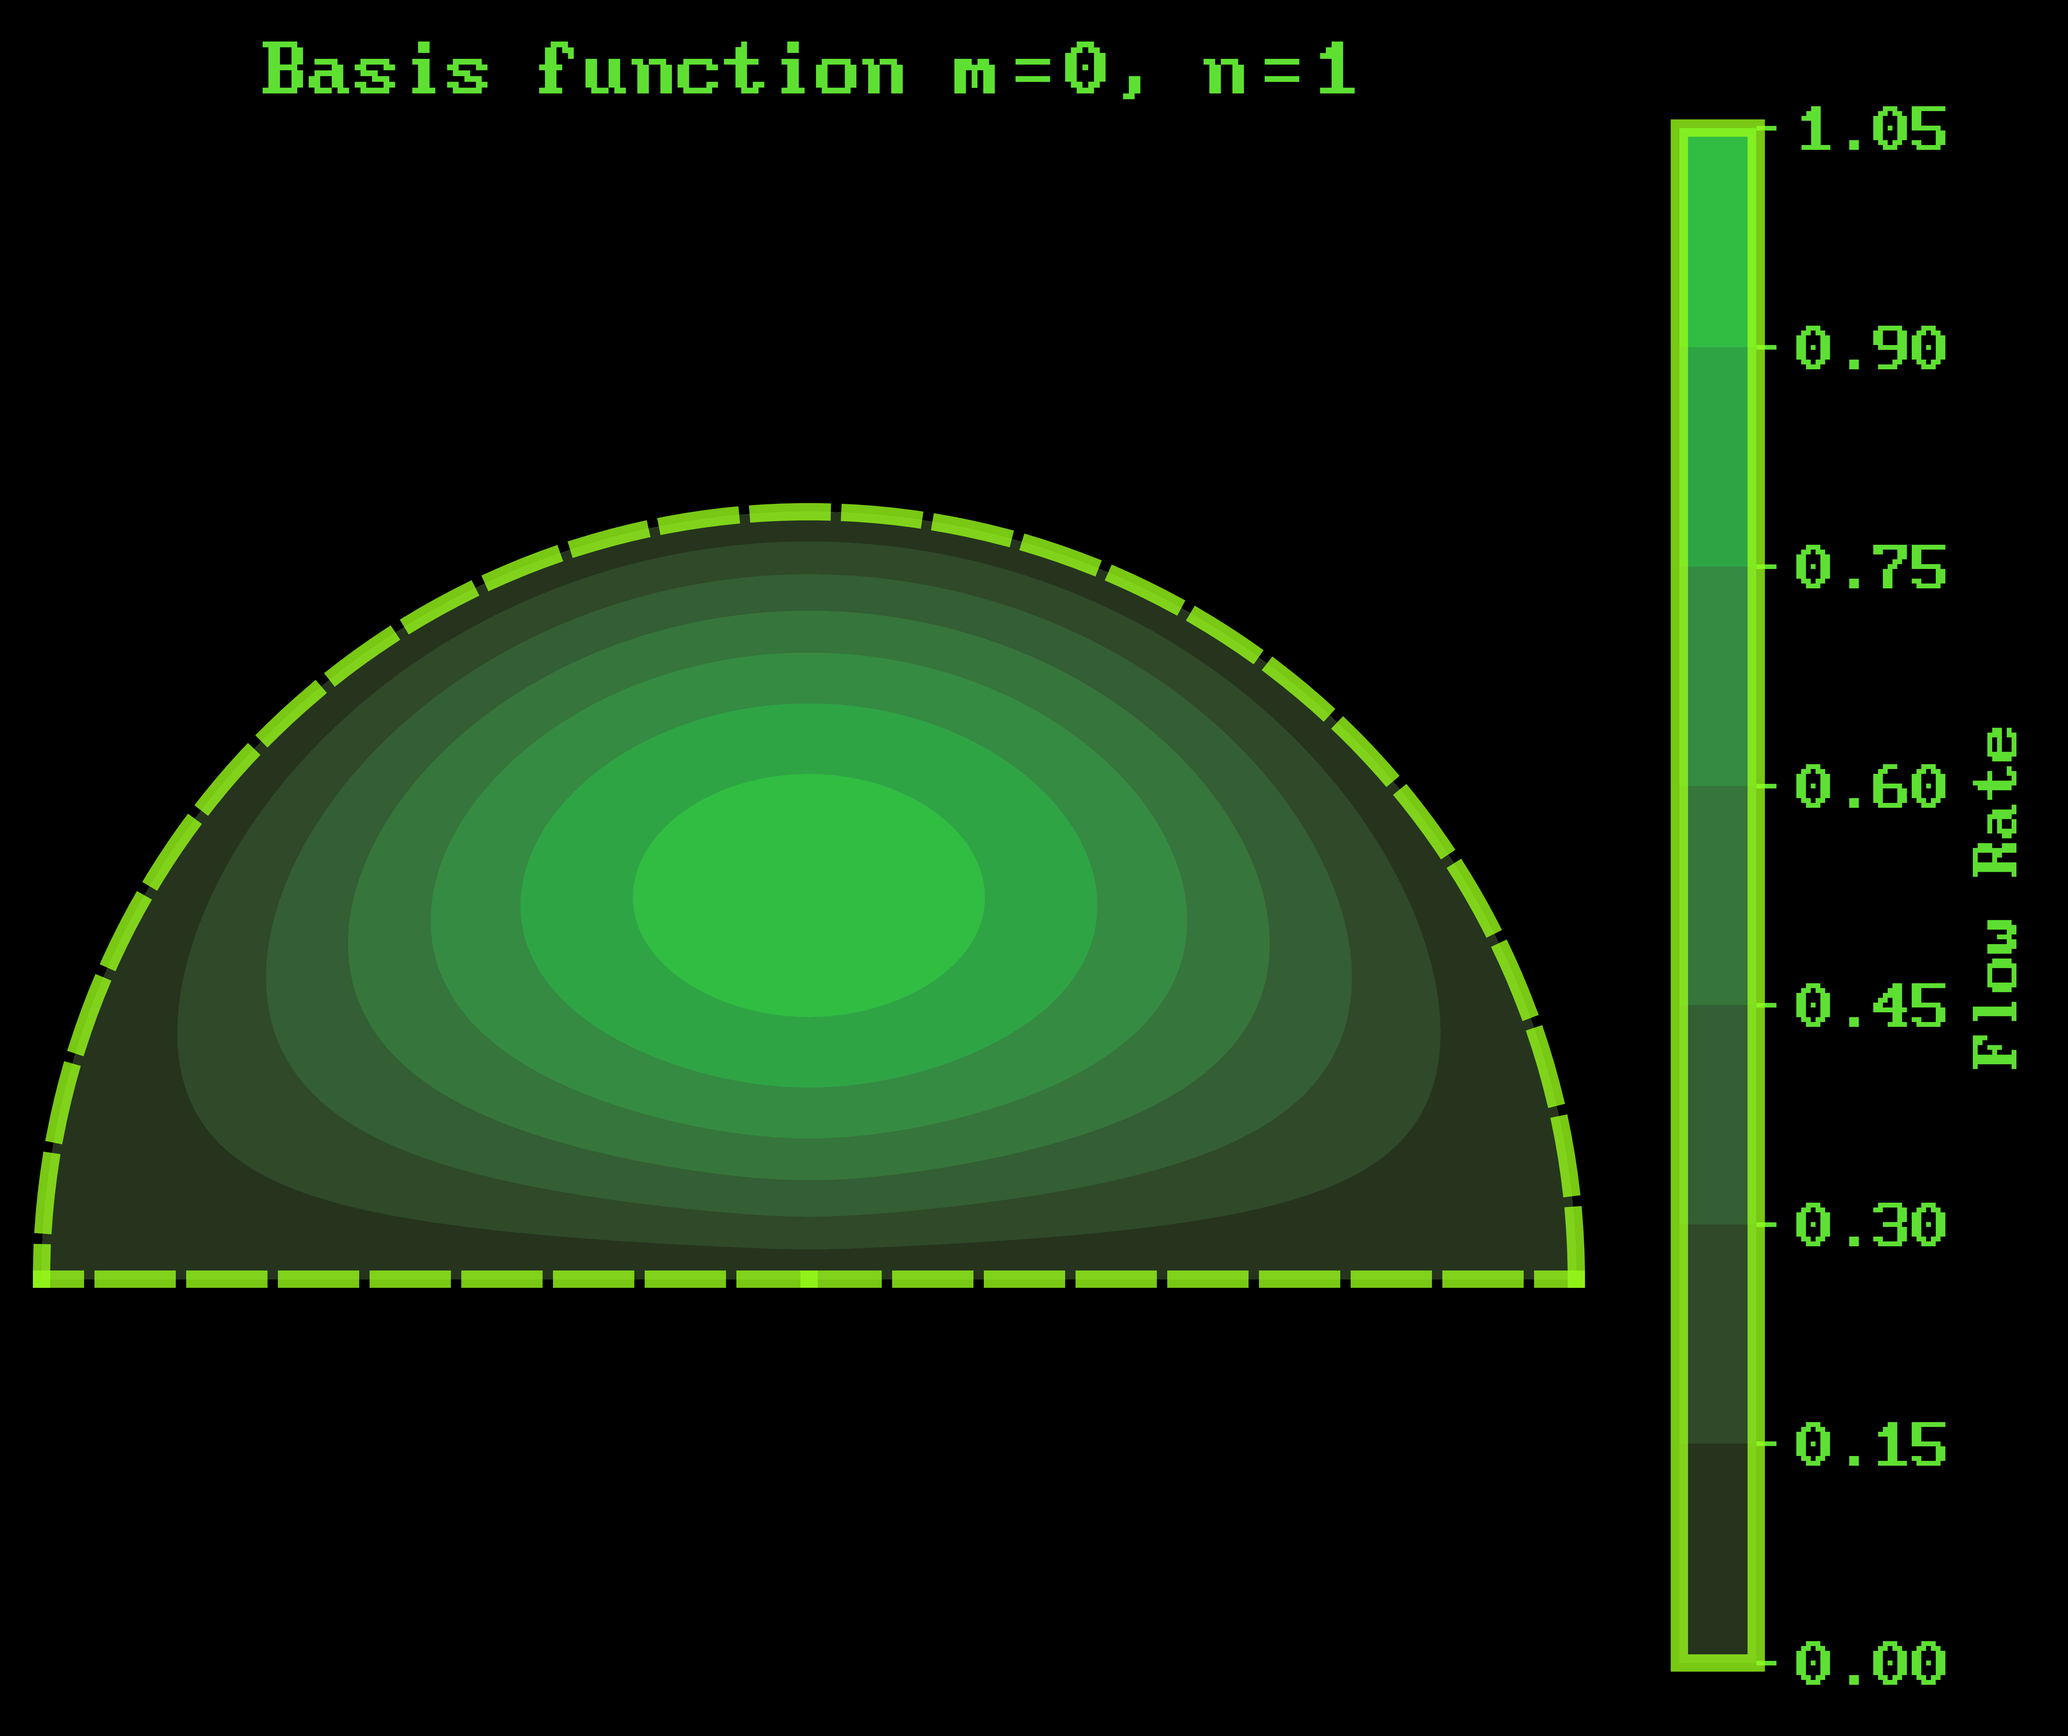
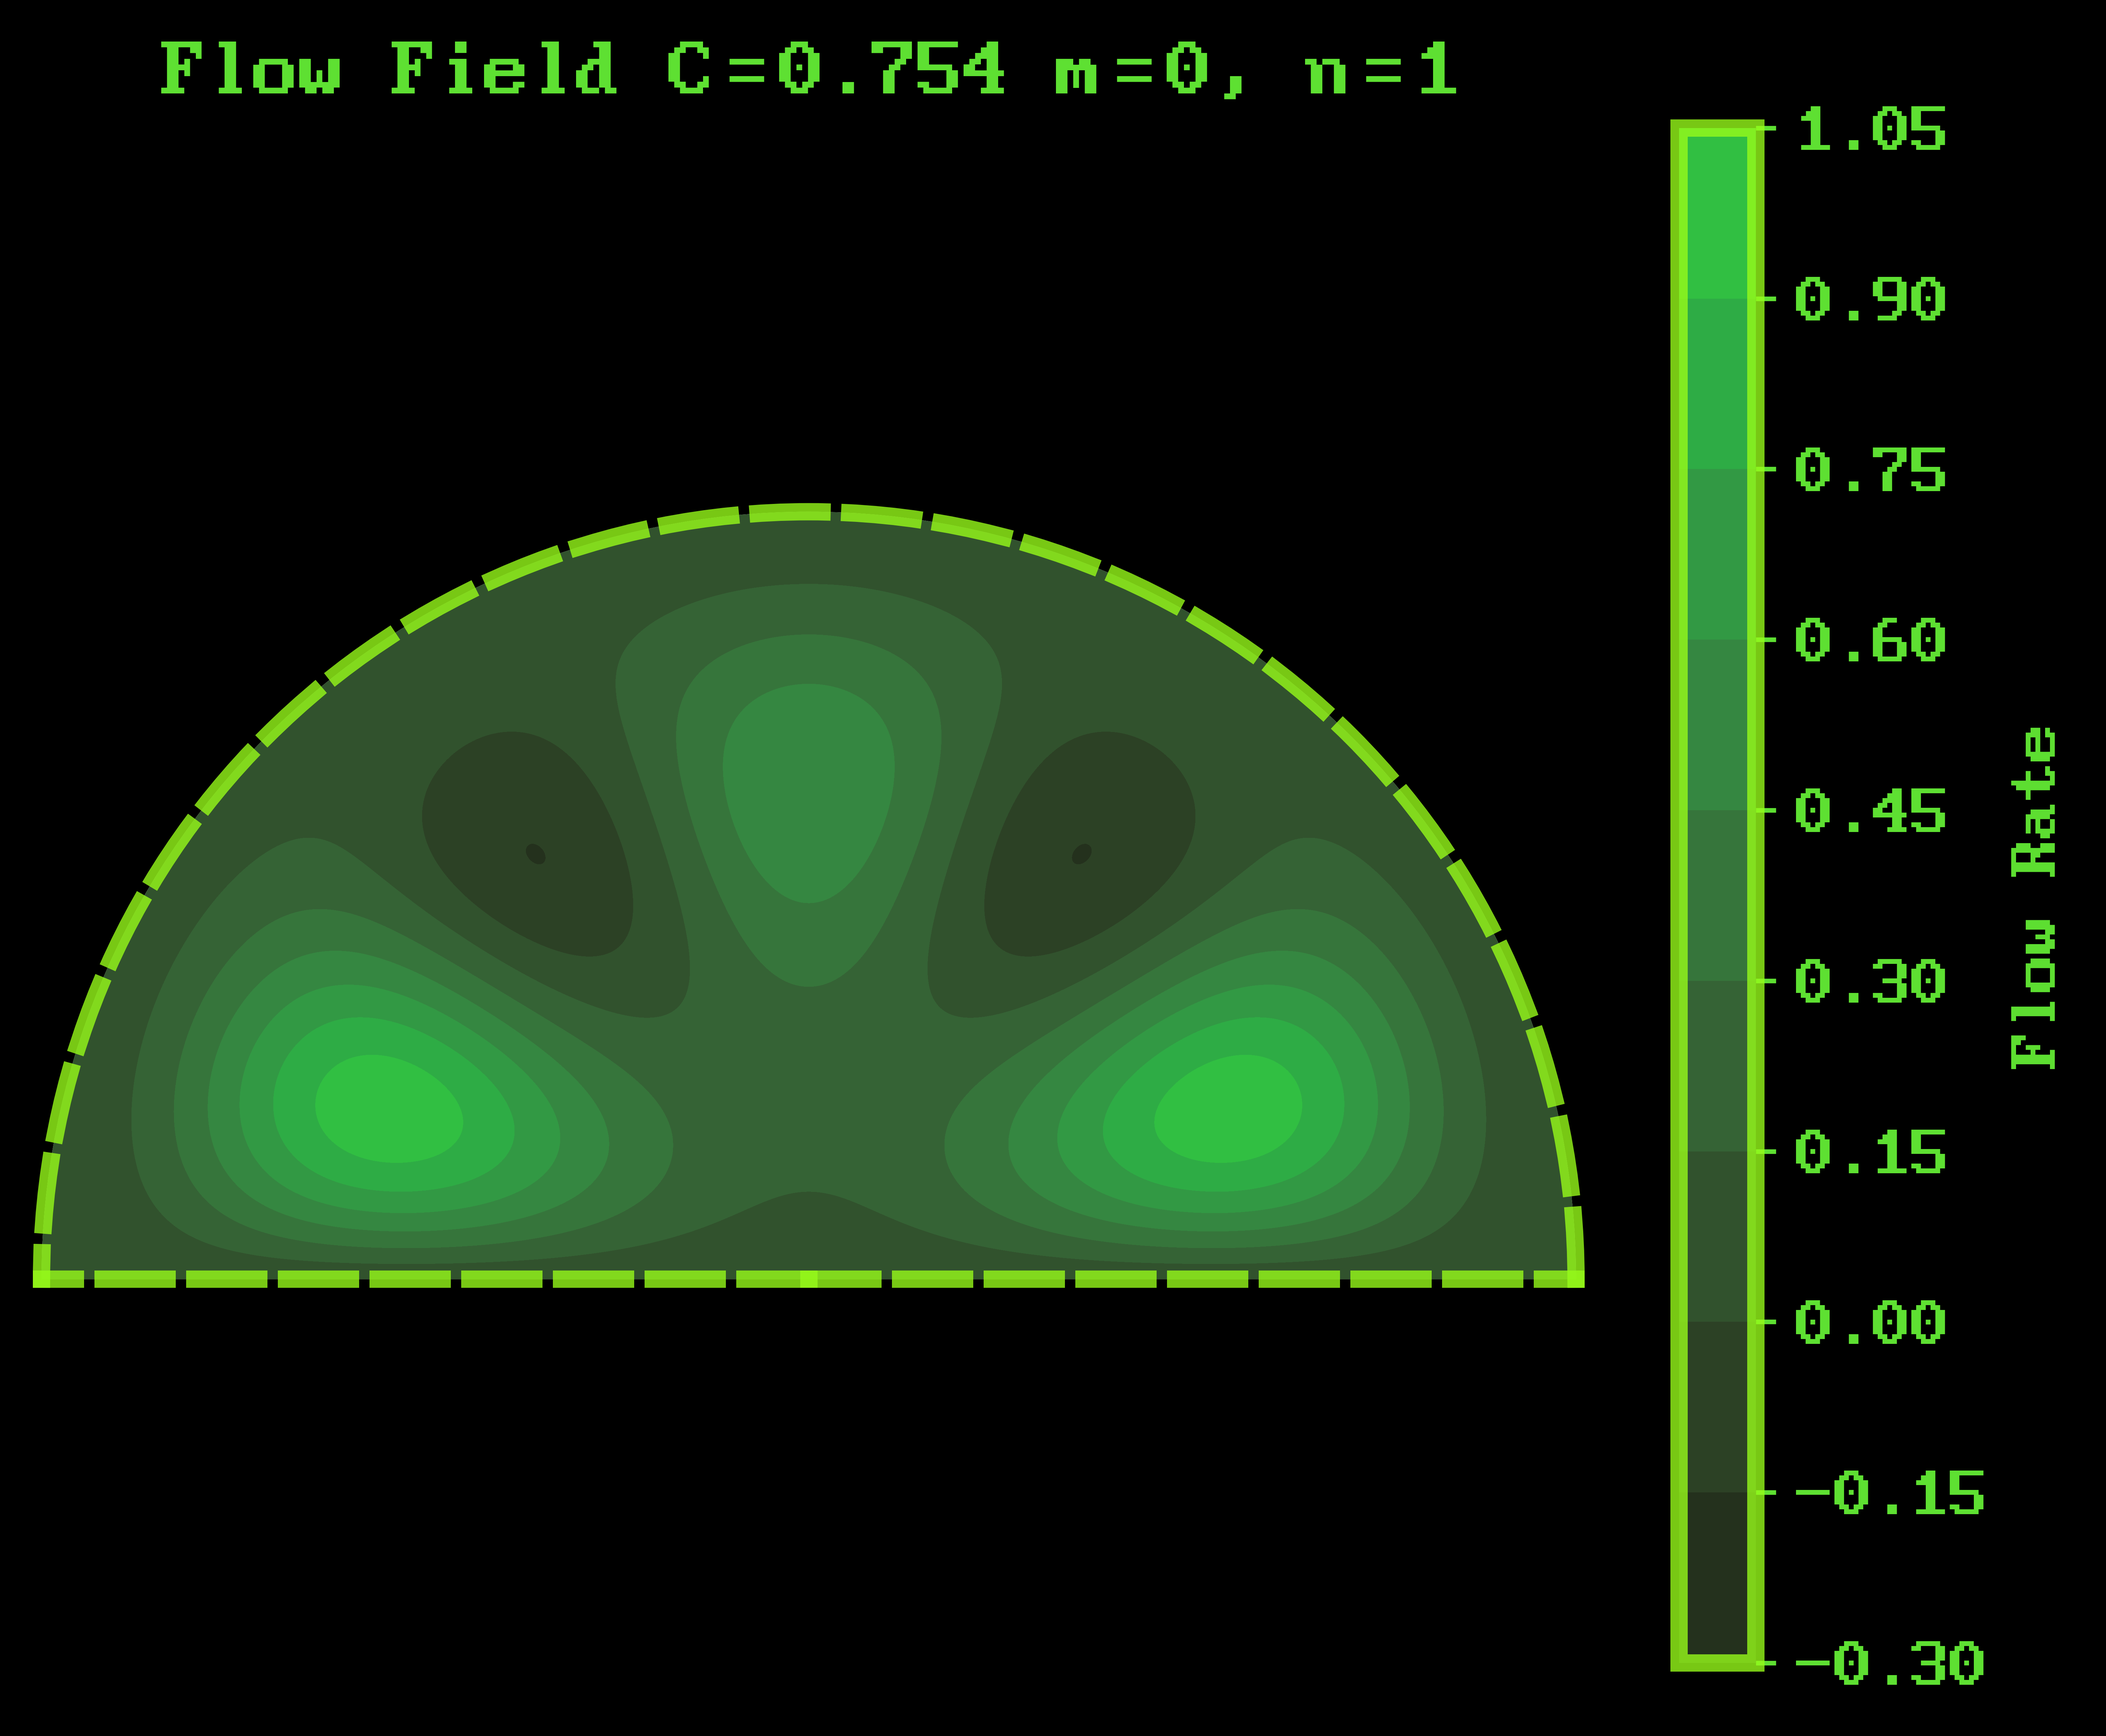
feat: :construction: work on flow solution

Changed region(s): [[0.0, 0.0622, 0.9649, 0.9641], [0.0622, 0.0, 0.6847, 0.0622]]

diff --git a/src.py b/src.py
@@ -6,6 +6,7 @@ import numpy as np
 import matplotlib.pyplot as plt
 import cmasher as cmr
 from scipy.special import beta
+from time import perf_counter_ns
 
 
 plt.rcParams["font.family"] = "BigBlueTerm437 Nerd Font Mono"
@@ -14,6 +15,7 @@ plt.rcParams['mathtext.rm'] = 'BigBlueTerm437 Nerd Font Mono'
 plt.rcParams['mathtext.it'] = 'BigBlueTerm437 Nerd Font Mono:italic'
 plt.rcParams['mathtext.bf'] = 'BigBlueTerm437 Nerd Font Mono:bold'
 plt.rcParams['mathtext.sf'] = 'BigBlueTerm437 Nerd Font Mono'
+plt.rcParams.update({'axes.unicode_minus' : False})
 
 # Text color #97FC1A
 # ['#000000', '#11140B', '#23301C', '#2F4A2A', '#356636', '#368440', '#30A245', '#32C141', '#5EE032', '#97FC1A']
@@ -32,6 +34,12 @@ class GalerkinObject():
         self.N_dim = N_dim
         # Sub colormap for better contrast on our quasi-green screen
         self.cmap = cmr.get_sub_cmap('cmr.nuclear', 0.2, 0.8)
+        # Init empty variables
+        self.basis = None
+        self.A = None
+        self.b = None
+        self.a = None
+        self.Z = None
     
     def basis_function(self, x, phi, m, n):
         """
@@ -115,19 +123,53 @@ class GalerkinObject():
 
         self.C *= -32/np.pi 
 
-        return self.C             
+        return self.C       
+
+    def _solve_a(self):
+        """
+        Solve for flow field coefficients a_mn.
+        """
+        if self.basis is None:
+            self.create_basis(self.M_dim, self.N_dim)
+        if self.A is None:
+            self._create_matrix(self.M_dim, self.N_dim)
+        if self.b is None:
+            self._create_vector(self.M_dim, self.N_dim)
+        
+        self.a = np.zeros(self.M_dim*self.N_dim)
+        A_inv = np.linalg.inv(self.A)
+        for m in range(self.M_dim):
+            for n in range(1, self.N_dim + 1):
+                for m_prime in range(self.M_dim):
+                    for n_prime in range(1, self.N_dim + 1):
+                        self.a[m_prime*self.N_dim + n_prime - 1] += A_inv[m * self.N_dim + n - 1, m_prime * self.N_dim + n_prime - 1] * \
+                                                                    self.b[m*self.N_dim + n - 1]
+
+        return self.a
     
-    def plot_flow(self, Z: np.ndarray | None):
+    def solve_flow(self):
+        """
+        Solve for the flow field.
+        """
+        if self.a is None:
+            self._solve_a()
+        
+        # self.Z = np.zeros((self.M_dim, self.N_dim, self.X.shape[0], self.X.shape[1]))
+        self.Z = 0
+        for m in range(self.M_dim):
+            for n in range(1, self.N_dim + 1):
+                self.Z += self.a[m*self.N_dim + n - 1] * self.basis_function(self.X, self.PHI, m, n)
+        
+        return self.Z
+    
+    def plot_flow(self, Z: np.ndarray | None, m: int = None, n: int = None, title: str = None):
         fig, ax = plt.subplots(subplot_kw=dict(projection='polar'), facecolor="#000000")
         ax.set_xticklabels([])
         ax.set_yticklabels([])
         ax.set_thetalim(0, np.pi)
 
-        m = self.m
-        n = self.n
-
         if Z is None:
-            Z = self.basis_function(self.X, self.PHI, self.m, self.n)
+            Z = self.basis_function(self.X, self.PHI, m, n)
 
         # Plot the contourf with the colormap
         cnt = ax.contourf(self.PHI, self.X, Z, cmap=self.cmap)
@@ -165,12 +207,36 @@ class GalerkinObject():
         ax.spines['start'].set_alpha(0.8)
         ax.spines['start'].set_linestyle("--")
 
-        plt.title(f"Basis function $m={m}$, $n={n}$", color="#5EE032")
+        plt.title(f"{title} $m={m}$, $n={n}$", color="#5EE032")
         plt.grid(False)
         plt.savefig('filename.png', dpi=1200, bbox_inches="tight")
         plt.show()
 
-GO = GalerkinObject(2, 2)
 
-mat = GO.solve()
-print(mat)
+def scale_it(N_range, M_range):
+    """
+    Scale the basis functions to see how they change with the 
+    number of basis functions.
+    """
+    solutions = {}
+    for M in range(1, M_range + 1):
+        for N in range(1, N_range + 1):
+            GO = GalerkinObject(M, N)
+            print(f"Now solving for basis of size m={M}, n={N}")
+            time = perf_counter_ns()
+            C = GO.solve()
+            time = (perf_counter_ns() - time)
+            solutions[f"m={M}, n={N}"] = (C, time)
+
+    return solutions
+
+# print(scale_it(5, 5))
+
+m = 0
+n = 1
+GO = GalerkinObject(3, 3)
+val = GO.solve()
+print(val)
+Z = GO.solve_flow()
+GO.plot_flow(Z, m, n, f"Flow Field $C = {round(val, 3)}$")
+
